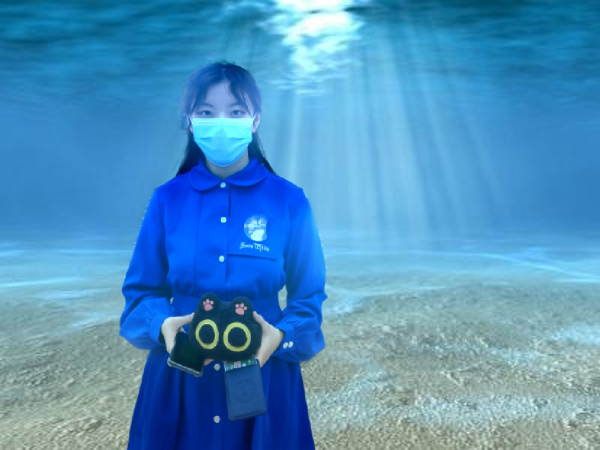
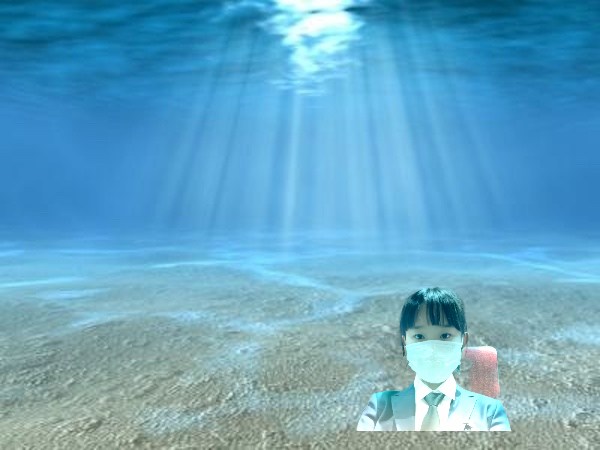
add advance_poisson

Changed region(s): [[0.18, 0.1244, 0.57, 1.0], [0.57, 0.6222, 0.87, 0.9644]]

diff --git a/main.py b/main.py
@@ -4,6 +4,7 @@ import numpy as np
 from paint_mask import MaskPainter
 from move_mask import MaskMover
 from poisson_image_editing import poisson_edit
+from advance_poisson_image_editing import advance_poisson_edit
 from mask_separation.detect_mask import detect_mask
 import MODNet.inference as modnet
 
@@ -27,27 +28,20 @@ if __name__ == '__main__':
     if source is None or target is None:
         print('Source or target image not exist.')
         exit()
-   
-    # resize target and source
-    if args.resize != 1.0:
-        target = cv2.resize(target, None, fx=args.resize, fy=args.resize, interpolation=cv2.INTER_AREA)
-    if source.shape[0] > target.shape[0] or source.shape[1] > target.shape[1]:
-        fx = target.shape[0] / source.shape[0]
-        fy = target.shape[1] / source.shape[1]
-        f = min(fx, fy)
-        source = cv2.resize(source, None, fx=f, fy=f, interpolation=cv2.INTER_AREA)
         
     if args.pattern:
         pattern = cv2.imread(args.pattern)
         if pattern is None:
             print('Pattern image not exist.')
             exit()
-        # resize pattern 
-        if pattern.shape[0] < source.shape[0] or pattern.shape[1] < source.shape[1]:
-            fx = source.shape[0] / pattern.shape[0]
-            fy = source.shape[1] / pattern.shape[1]
-            f = max(fx, fy)
-            pattern = cv2.resize(pattern, None, fx=f, fy=f, interpolation=cv2.INTER_AREA)
+    else:
+        if args.resize != 1.0:
+            target = cv2.resize(target, None, fx=args.resize, fy=args.resize, interpolation=cv2.INTER_AREA)
+        if source.shape[0] > target.shape[0] or source.shape[1] > target.shape[1]:
+            fx = target.shape[0] / source.shape[0]
+            fy = target.shape[1] / source.shape[1]
+            f = min(fx, fy)
+            source = cv2.resize(source, None, fx=f, fy=f, interpolation=cv2.INTER_AREA)
 
     # 2. get foreground and target_mask from source
     # draw target mask
@@ -69,6 +63,22 @@ if __name__ == '__main__':
             print('Could not detect face mask automaticly, please highlight the face mask manually.\n')
             mp = MaskPainter(path.dirname(args.source), source)
             pattern_mask = mp.paint_mask() 
+            # resize target and source
+        if args.resize != 1.0:
+            target = cv2.resize(target, None, fx=args.resize, fy=args.resize, interpolation=cv2.INTER_AREA)
+        if source.shape[0] > target.shape[0] or source.shape[1] > target.shape[1]:
+            fx = target.shape[0] / source.shape[0]
+            fy = target.shape[1] / source.shape[1]
+            f = min(fx, fy)
+            source = cv2.resize(source, None, fx=f, fy=f, interpolation=cv2.INTER_AREA)
+            target_mask = cv2.resize(target_mask, None, fx=f, fy=f, interpolation=cv2.INTER_AREA)
+            pattern_mask = cv2.resize(pattern_mask, None, fx=f, fy=f, interpolation=cv2.INTER_AREA)
+        # resize pattern 
+        if pattern.shape[0] < source.shape[0] or pattern.shape[1] < source.shape[1]:
+            fx = source.shape[0] / pattern.shape[0]
+            fy = source.shape[1] / pattern.shape[1]
+            f = max(fx, fy)
+            pattern = cv2.resize(pattern, None, fx=f, fy=f, interpolation=cv2.INTER_AREA)
 
         pattern_mask = pattern_mask.astype(np.uint8)
 
@@ -84,7 +94,9 @@ if __name__ == '__main__':
         pattern_mask = cv2.cvtColor(pattern_mask, cv2.COLOR_RGB2GRAY) 
         ## pattern_mask didn't need to be transformed
         offset = 0, 0
-        source = poisson_edit(pattern, source, pattern_mask, offset) 
+        source = advance_poisson_edit(pattern, source, pattern_mask, offset) 
+        cv2.imwrite('tmp.jpg', source)
+        # exit()
         print(f'pattern -> source: pattern.shape={pattern.shape}, pattern_mask.shape={pattern_mask.shape}, source.shape={source.shape}') 
         
     # 6. adjust person position for target image

diff --git a/advance_poisson_image_editing.py b/advance_poisson_image_editing.py
@@ -48,6 +48,9 @@ def advance_poisson_edit(source, target, mask, offset):
         
     M = np.float32([[1,0,offset[0]],[0,1,offset[1]]])
     source = cv2.warpAffine(source,M,(x_range,y_range))
+    # noise = np.random.randint(0, 10, size=(x_range, y_range, 3))   
+    # source += noise.astype(np.uint8) 
+    # source[source>255] = 255
         
     mask = mask[y_min:y_max, x_min:x_max]    
     mask[mask != 0] = 1
@@ -77,6 +80,7 @@ def advance_poisson_edit(source, target, mask, offset):
 
     # mat_A = mat_A.tocsc()
     cnt = 0
+    total = (mask>0).sum()
     mask_flat = mask.flatten()  
     
     ##########################################################################
@@ -95,8 +99,9 @@ def advance_poisson_edit(source, target, mask, offset):
     mat_b = mat_source
     for y in range(1, y_range - 1):
         for x in range(1, x_range - 1):       
-            if 0.000000001*mat_source[y*x_range+x]<mat_target[y*x_range+x] and mask[y, x] != 0:
+            if 10000*np.abs(mat_source[y*x_range+x])<np.abs(mat_target[y*x_range+x]) and mask[y, x] != 0:
                 label[y,x] = 1
+                cnt += 1
     ############################################################            
                     
     for channel in range(source.shape[2]):
@@ -116,7 +121,6 @@ def advance_poisson_edit(source, target, mask, offset):
                 if label[y, x]!=0:
                 # 使用if False替换上面条件,即为改动前的版本
                 # if False:
-                    cnt+=1#用于计数多少source被保留
                     # source梯度较小，不改变该点像素值
                     k = x + y * x_range # flatten 之后的 index
                     mat_A_tmp[k, k] = 1
@@ -147,11 +151,11 @@ def advance_poisson_edit(source, target, mask, offset):
         #print(x.shape)
 
         target[y_min:y_max, x_min:x_max, channel] = x
-        print(channel, "通道额外保留像素点个数：", cnt)
+    print("保留原图像素点比例：", cnt/total)
     return target
 
 def main():    
-    scr_dir = 'figs/example1'
+    scr_dir = 'figs/example'
     out_dir = scr_dir
     source = cv2.imread(path.join(scr_dir, "source1.jpg")) 
     target = cv2.imread(path.join(scr_dir, "target1.jpg"))    
